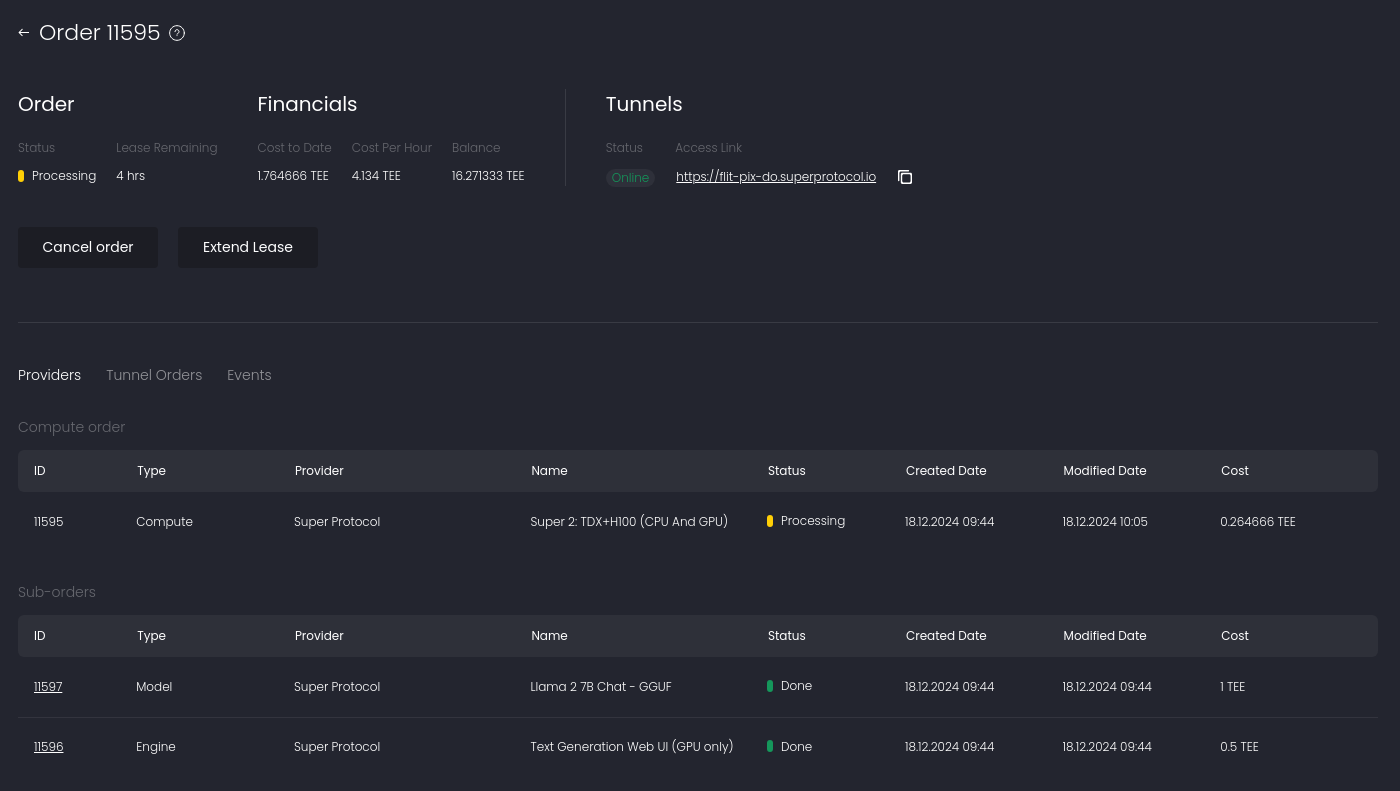
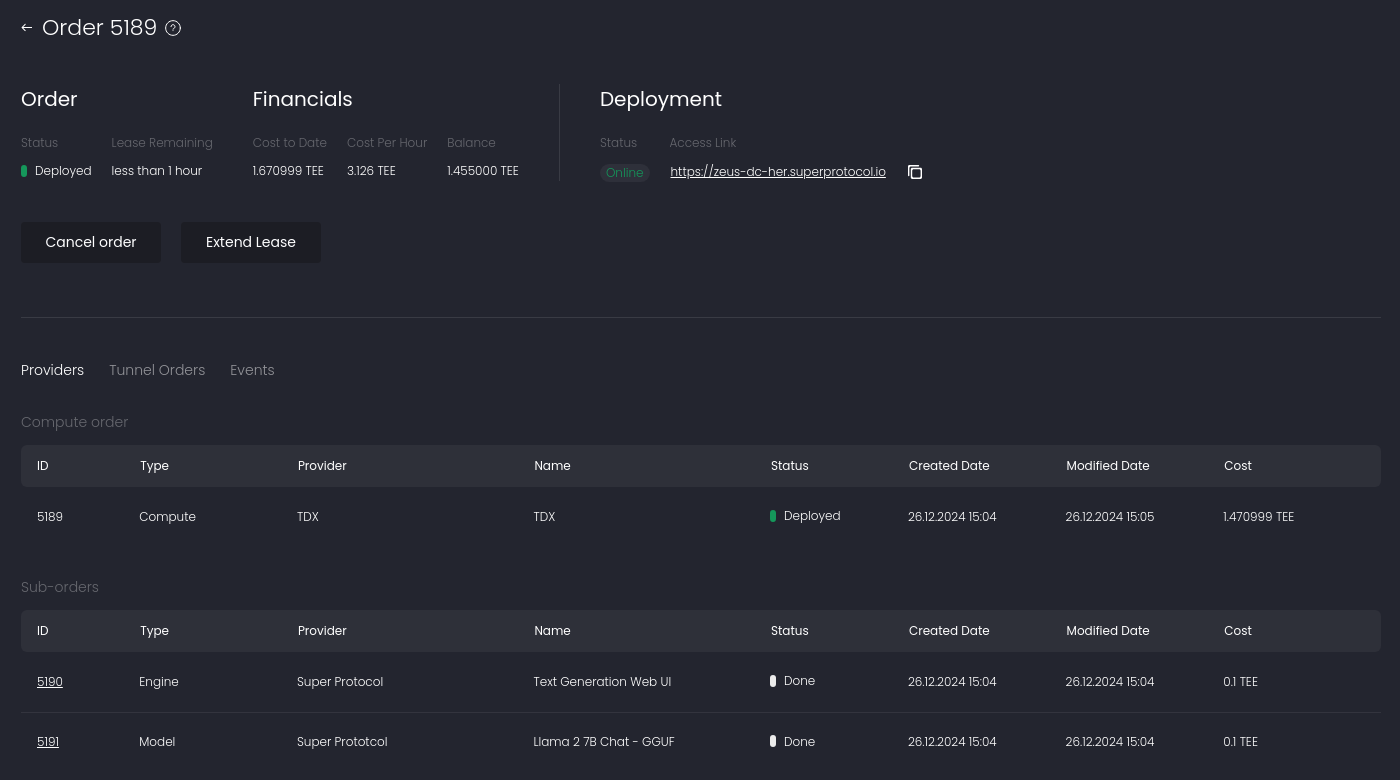
Marketplace
Updated guides, troubleshooting, order-builder, order

diff --git a/docs/marketplace/orders/order-builder/index.md b/docs/marketplace/orders/order-builder/index.md
@@ -40,13 +40,7 @@ Clicking the model's name opens its [**Offer**](/marketplace/marketplace/offer) 
 
 To view the model's requirement slot, expand the **Requirements**. If an offer has multiple requirement slots, the **[+]** and **Requirements** buttons will open the **Pricing** tab within the model's **Offer** window. There, you can find the complete list of the model's requirement slots.
 
-If you add your uploaded model, a yellow warning icon will appear. 
-
-<img src={require('../../images/model-warning.png').default} width="auto" height="auto" border="1"/>
-<br/>
-<br/>
-
-It indicates that the requirements of the model are not specified. The system will not include the model in the automatic calculation of the compute configuration because it doesn't know how much resources it needs to run.
+If you add your uploaded model, its requirements are not specified. The system does not include such models in the automatic calculation of the compute configuration.
 
 :::warning
 
@@ -94,11 +88,16 @@ For orders using tunnels, the engine settings will include the **Tunnels** tab w
 
 ## Compute
 
-The term _compute_ refers to a confidential computing device that processes the order.
+The term _compute_ refers to a confidential computing machine that processes the order.
 
 The system automatically calculates a compute configuration that meets or exceeds the combined requirements of the models, datasets, and engine added to the order. To add a machine to the order, click the blue **[+]** button next to it.
 
+**In Queue** shows the number of orders waiting for an empty slot on this machine. If it is not zero, your order may take longer to process. Consider choosing another compute offer.
+
 Clicking the machine's name opens its [**Offer**](/marketplace/marketplace/offer) window.
+
+<img src={require('../../images/order-builder-queue.png').default} width="auto" height="auto" border="1"/>
+<br/>
 
 Learn more about [requirements and configurations](/fundamentals/slots).
 

diff --git a/docs/marketplace/orders/order/index.md b/docs/marketplace/orders/order/index.md
@@ -20,7 +20,8 @@ The contents of an order are encrypted and accessible only to the user who place
 - **Suspended**. The order is awaiting the creation of suborders.
 - **Blocked**. A suborder temporarily blocks the order to generate access keys and authorize the confidential computing device to access the suborder's content.
 - **New**. The order is awaiting in the queue for the computing device to become available.
-- **Processing**. The computign device is executing the order inside a Trusted Execution Environment. Note that for Deploy orders this status may also mean the model is deployed and running normally; in this case the status of the tunnels will be **Online**.
+- **Processing**. The machine is executing the order inside a Trusted Execution Environment. 
+- **Deployed**. The model is deployed and running.
 - **Done**. The computation is done, and the order result is available for download. For Deploy orders, it also means the model is no longer running.
 
 Additional possible statuses:
@@ -43,9 +44,9 @@ The **Financials** section shows payment-related information about the order:
 - **Cost Per Hour** is the total cost of all the offers priced per hour. The order balance decreases by this amount every hour.
 - **Balance** is the remaining order balance. You can replenish the balance using the **Extend Lease** button.
 
-## Tunnels
+## Deployment
 
-The **Tunnels** section informs about the launched tunnel. Tunnels enable end users to securely access a model deployed on Super Protocol from the internet. Learn more about [Tunnels](/fundamentals/tunnels).
+The **Deployment** section informs about the launched tunnel. Tunnels enable end users to securely access a model deployed on Super Protocol from the internet. Learn more about [Tunnels](/fundamentals/tunnels).
 
 **Status** indicates the current state of the tunnel:
 

diff --git a/docs/marketplace/guides/place-order.md b/docs/marketplace/guides/place-order.md
@@ -76,6 +76,11 @@ Once you add an engine, click **Select Compute** to open the list of available c
 
 Click the blue **[+]** button to add a machine to the order.
 
+**In Queue** shows the number of orders waiting for an empty slot on this machine. If it is not zero, your order may take longer to process. Consider choosing another compute offer.
+
+<img src={require('../images/order-builder-queue.png').default} width="auto" height="auto" border="1"/>
+<br/>
+
 ## Step 4. Set lease time
 
 The panel at the bottom of the screen displays the total prices:
@@ -123,7 +128,7 @@ Once the Deploy order is placed successfully, you will be redirected to its [**O
 
 ## Step 6. Manage the order
 
-Your order may take about 30 minutes to process if you used a model from Marketplace and up to one hour for uploaded models. You can check the order status in the **Order** screen. When the model is deployed and available, you will see **Online** in the tunnel's status.
+Your order may take about 30 minutes to process if you used a model from Marketplace and up to one hour for uploaded models. You can check the order status in the **Order** screen. When the model is deployed and available, you will see **Deployed** in the order status and **Online** in the tunnel's status.
 
 <img src={require('../images/order-online.png').default} width="auto" height="auto" border="1"/>
 <br/>

diff --git a/docs/marketplace/guides/troubleshooting.md b/docs/marketplace/guides/troubleshooting.md
@@ -19,6 +19,8 @@ If MetaMask shows no requests, refresh the page and press the **Enter Marketplac
 
 If the problem persists, restart your browser and unlock MetaMask before trying to enter the Marketplace.
 
+This issue may also occur due to Marketplace maintenance. Wait a few minutes and try again, or contact Super Protocol on Discord for a quick update.
+
 ## Order status: Error
 
 The **Error** status means something went completely wrong, and the model was not deployed.
